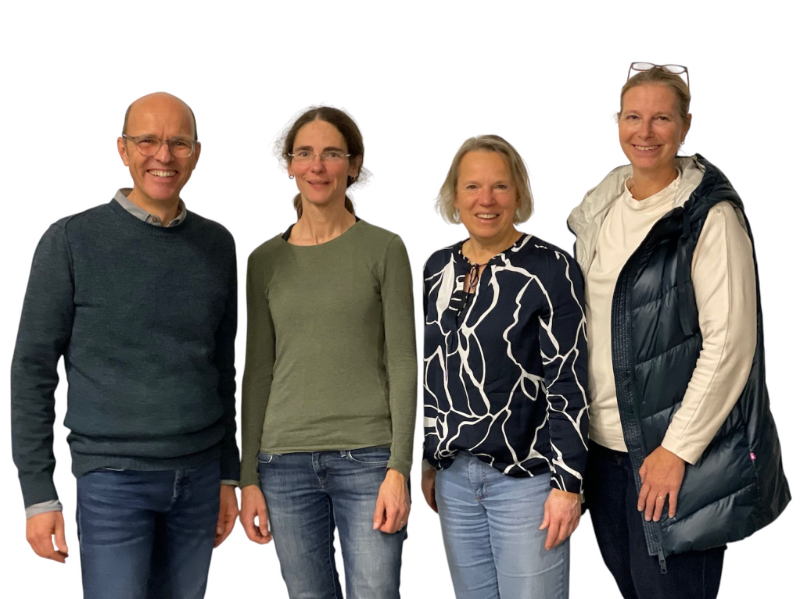
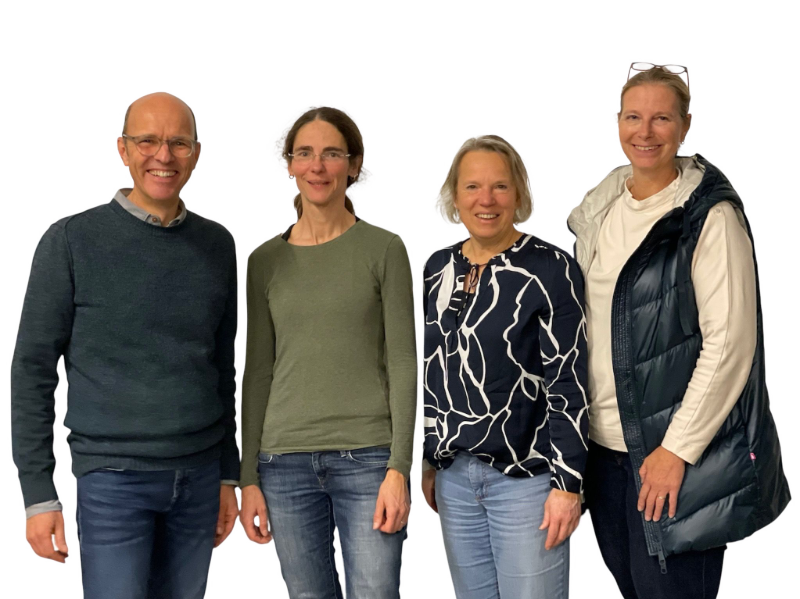
Vorstandsfoto verkleinert

diff --git a/app/team/page.tsx b/app/team/page.tsx
@@ -61,7 +61,7 @@ export default function TeamPage() {
         {vorstand.map( (t,i) => <ContactCard name={t.name} image={t.image} text={t.position} key={i}/>)}
       </div> */}
       <div className=' bg-black-950 bg-opacity-70 m-10 flex flex-col justify-center items-center rounded-xl pb-10'>
-        <div><Image src='/images/people/vorstand_2025.png' 
+        <div><Image src='/images/people/vorstand_2025_md.png' 
                className='border-b-2 border-white'
                alt="Vorstand" 
                width='700' 